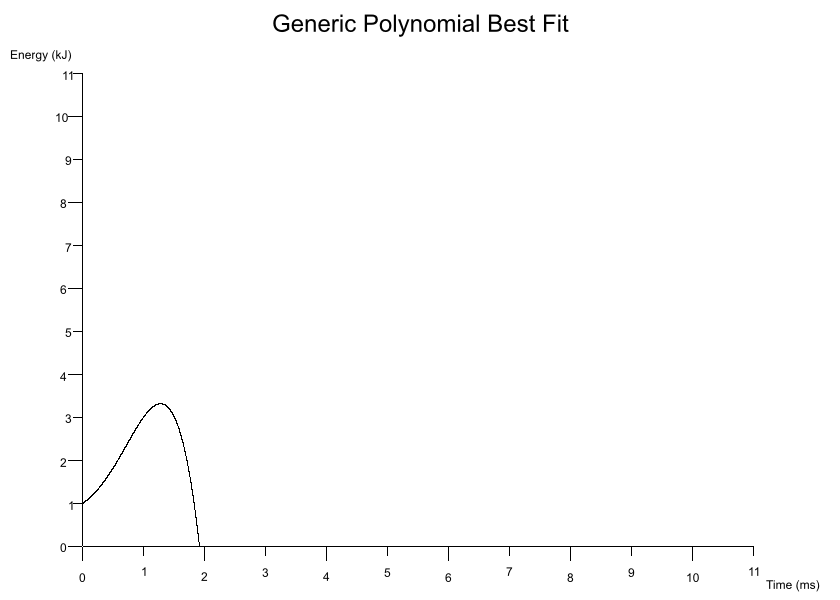
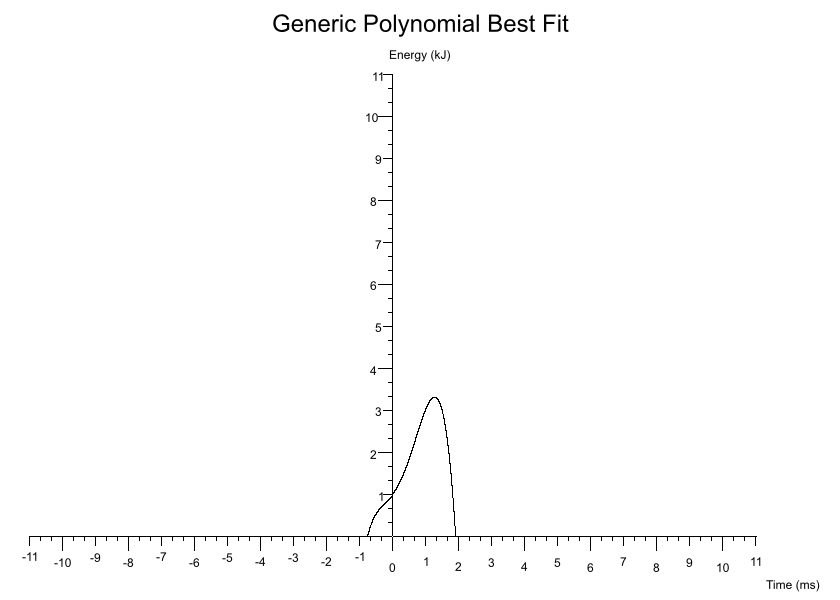
tidy up

diff --git a/src/canvas/best_fit.rs b/src/canvas/best_fit.rs
@@ -149,7 +149,7 @@ impl BestFit {
 			} => {
 				trace!("Finding coordinates for Linear best fit line with gradient {}, y_intercept {} and between ({}, {}) and ({}, {})", gradient, y_intercept, x_min, y_min, x_max, y_max);
 				let mut points: Vec<DataPoint> = Vec::new();
-				for scaled_x in x_min..=(x_max * scale_factor) {
+				for scaled_x in (x_min * scale_factor)..=(x_max * scale_factor) {
 					let x = scaled_x as f32 / scale_factor as f32;
 					let y = (*gradient * x) + *y_intercept;
 					if y > y_min as f32 && y < y_max as f32 {
@@ -175,7 +175,7 @@ impl BestFit {
 			} => {
 				trace!("Finding coordinates for Quadratic best fit line with intercept {}, linear coefficient {} and quadratic coefficient {}", intercept, linear_coeff, quadratic_coeff);
 				let mut points: Vec<DataPoint> = Vec::new();
-				for scaled_x in x_min..=(x_max * scale_factor) {
+				for scaled_x in (x_min * scale_factor)..=(x_max * scale_factor) {
 					let x = scaled_x as f32 / scale_factor as f32;
 					let y = intercept + (linear_coeff * x) + (quadratic_coeff * x.powf(2.0));
 					if y > y_min as f32 && y < y_max as f32 {
@@ -202,7 +202,7 @@ impl BestFit {
 			} => {
 				trace!("Finding coordinates for Cubic best fit line with intercept {}, linear coefficient {}, quadratic coefficient {} and cubic coefficient {}", intercept, linear_coeff, quadratic_coeff, cubic_coeff);
 				let mut points: Vec<DataPoint> = Vec::new();
-				for scaled_x in x_min..=(x_max * scale_factor) {
+				for scaled_x in (x_min * scale_factor)..=(x_max * scale_factor) {
 					let x = scaled_x as f32 / scale_factor as f32;
 					let y = intercept
 						+ (linear_coeff * x) + (quadratic_coeff * x.powf(2.0))
@@ -228,7 +228,7 @@ impl BestFit {
 			} => {
 				trace!("Finding coordinates for GenericPolynomial best fit line");
 				let mut points: Vec<DataPoint> = Vec::new();
-				for scaled_x in x_min..=(x_max * scale_factor) {
+				for scaled_x in (x_min * scale_factor)..=(x_max * scale_factor) {
 					let x = scaled_x as f32 / scale_factor as f32;
 					let mut y = 0.0;
 					for (k, v) in coefficients.iter() {
@@ -262,7 +262,7 @@ impl BestFit {
 					std::process::exit(1);
 				}
 				let mut points: Vec<DataPoint> = Vec::new();
-				for scaled_x in x_min..=(x_max * scale_factor) {
+				for scaled_x in (x_min * scale_factor)..=(x_max * scale_factor) {
 					let x = scaled_x as f32 / scale_factor as f32;
 					let y = (constant * base.powf(power * x)) + vertical_shift;
 					if y > y_min as f32 && y < y_max as f32 {
@@ -292,7 +292,7 @@ impl BestFit {
 					std::process::exit(1)
 				}
 				let mut points: Vec<DataPoint> = Vec::new();
-				for scaled_x in x_min..=(x_max * scale_factor) {
+				for scaled_x in (x_min * scale_factor)..=(x_max * scale_factor) {
 					let x = scaled_x as f32 / scale_factor as f32;
 					let y = (variance * (2.0 * PI).sqrt()).powf(-1.0)
 						* E.powf(-(x - expected_value).powf(2.0) / (2.0 * variance.powf(2.0)));
@@ -345,7 +345,7 @@ impl BestFit {
 			} => {
 				trace!("Finding coordinates for Sinusoidal best fit line with amplitude {}, period {}, phase shift {} and vertical shift {}", amplitude, period, phase_shift, vertical_shift);
 				let mut points: Vec<DataPoint> = Vec::new();
-				for scaled_x in x_min..=(x_max * scale_factor) {
+				for scaled_x in (x_min * scale_factor)..=(x_max * scale_factor) {
 					let x = scaled_x as f32 / scale_factor as f32;
 					let y = amplitude * ((period * x) + phase_shift).sin() + vertical_shift;
 					if y > y_min as f32 && y < y_max as f32 {
@@ -372,7 +372,7 @@ impl BestFit {
 			} => {
 				trace!("Finding coordinates for Cosinusoidal best fit line with amplitude {}, period {}, phase shift {} and vertical shift {}", amplitude, period, phase_shift, vertical_shift);
 				let mut points: Vec<DataPoint> = Vec::new();
-				for scaled_x in x_min..=(x_max * scale_factor) {
+				for scaled_x in (x_min * scale_factor)..=(x_max * scale_factor) {
 					let x = scaled_x as f32 / scale_factor as f32;
 					let y = amplitude * ((period * x) + phase_shift).cos() + vertical_shift;
 					if y > y_min as f32 && y < y_max as f32 {

diff --git a/src/canvas/axes/axis_y.rs b/src/canvas/axes/axis_y.rs
@@ -344,24 +344,6 @@ pub fn draw_y_axis_scale_markings(
 					let py = axis_min_pixel.1 - (i * subdivision_length);
 					canvas.put_pixel(px, py, Rgba(BLACK));
 				}
-				// Draw the data label text
-				// For TopPair don't draw the origin marker text otherwise it sits on x-axis
-				if i == 0 && *quadrants == Quadrants::TopPair {continue}
-				let text = (y_data_min_max_limits.0 as f32 + (value_per_subdivision * i as f32))
-					.to_string();
-				let glyphs = create_glyphs(font_size, &text, &font);
-				// So that scale markers are not drawn on the graph area itself check which quadrant type
-				// and flip if necessary so they are drawn in the available whitespace outside the axis
-				let origin_x = if *quadrants == Quadrants::TopLeft {
-					axis_origin_pixel.0 + (data_label_length * label_length_scale)
-				} else {
-					axis_origin_pixel.0 - (data_label_length * label_length_scale)
-				};
-				let origin_y = axis_min_pixel.1 - (i * subdivision_length);
-				let offset = get_y_axis_scale_label_offset(&glyphs, origin_x, origin_y, quadrants);
-				trace!("Drawing y-axis label {} at {:?}", text, offset);
-				draw_glyphs(canvas, BLACK, glyphs, offset);
-
 				// If there's enough space between each scale marker create mini-markings
 				// mini-marker varients
 				let marker_count = vec![9, 4, 3, 2, 1];
@@ -386,6 +368,23 @@ pub fn draw_y_axis_scale_markings(
 						break 'outer;
 					}
 				}
+				// Draw the data label text
+				// For TopPair don't draw the origin marker text otherwise it sits on x-axis
+				if i == 0 && *quadrants == Quadrants::TopPair {continue}
+				let text = (y_data_min_max_limits.0 as f32 + (value_per_subdivision * i as f32))
+					.to_string();
+				let glyphs = create_glyphs(font_size, &text, &font);
+				// So that scale markers are not drawn on the graph area itself check which quadrant type
+				// and flip if necessary so they are drawn in the available whitespace outside the axis
+				let origin_x = if *quadrants == Quadrants::TopLeft {
+					axis_origin_pixel.0 + (data_label_length * label_length_scale)
+				} else {
+					axis_origin_pixel.0 - (data_label_length * label_length_scale)
+				};
+				let origin_y = axis_min_pixel.1 - (i * subdivision_length);
+				let offset = get_y_axis_scale_label_offset(&glyphs, origin_x, origin_y, quadrants);
+				trace!("Drawing y-axis label {} at {:?}", text, offset);
+				draw_glyphs(canvas, BLACK, glyphs, offset);
 			}
 		}
 		// varients with just a negative y-axis

diff --git a/README.md b/README.md
@@ -7,9 +7,11 @@
 
 # plotrs
 
-A CLI app for plotting csv data sets onto a graph. It works by reading a graph definition from a `.ron` file, then extracts data from one or more csv files and produces a `.png` image.
+A CLI app for plotting csv data sets onto a graph. It works by reading a graph definition from a `.ron` file, then extracts data from one or more csv files and produces a `.png` image. Currently only scatter graphs are supported.
 
 <img src="examples/scatter_full/showcasing_a_bunch_of_cool_features.png" alt="s" width="800"/>
+
+Back in the mists of time I used to use [GNU Octave](https://www.gnu.org/software/octave/index) for plotting data about plasmonic absorption and photovoltaic-thermoelectric currents. As part of my Rust jounrey I thought I'd try writting a program for plotting data points in a similar style.
 
 ## Features
 
@@ -133,7 +135,7 @@ y = gradient * x + y_intercept
 y = intercept + (linear_coeff * x) + (quadratic_coeff * x.powf(2))
 ```
 
-`Some(Quadratic(intercept: 1.0, linear_coeff: 1.0, quadratic_coeff: 2.0, colour: Black))`
+`Some(Quadratic(intercept: 1.0, linear_coeff: 0.0, quadratic_coeff: 1.0, colour: Black))`
 
 <img src="examples/scatter_best_fit/quadratic_best_fit.png" alt="s" width="210"/>
 
@@ -163,6 +165,8 @@ The following extends the Cubic best fit into a Quartic Polynomial:
 
 `Some(GenericPolynomial(coefficients: {0: 1.0, 1: 1.0, 2: 1.0, 3: 1.0, 4: -1.0}, colour: Black))`
 
+Which to the human eye kinda looks like: `1 + x + x^2 + x^3 - x^4`.
+
 <img src="examples/scatter_best_fit/generic_polynomial_best_fit.png" alt="s" width="210"/>
 
 ### Exponential
@@ -181,7 +185,7 @@ y = (constant * base.powf(power * x)) + vertical_shift;
 `y = (variance * (2.0 * PI).sqrt()).powf(-1.0) * E.powf(-(x - expected_value).powf(2.0) / (2.0 * variance.powf(2.0)))`
 ```
 
-`Some(Gaussian(expected_value: 5.0, variance: 0.2, colour: Black))`
+`Some(Gaussian(expected_value: 0.0, variance: 0.3, colour: Black))`
 
 <img src="examples/scatter_best_fit/gaussian_best_fit.png" alt="s" width="210"/>
 
@@ -256,6 +260,7 @@ Try increasing the size of your canvas if the edges of the text become blurry.
 
 ## Contributing
 
+* If you're unsure about something raise an issue first
 * Fork it
 * Tippy tap your keyboard
 * Submit a PR
@@ -270,3 +275,4 @@ Try increasing the size of your canvas if the edges of the text become blurry.
 * Allow overriding font
 * checked sub and addition to ensure pixel u32s are not overflowing maybe?
 * Split/simplify drawing methods out and then add a billion tests, many around position calculations
+* What methods/modules can be reused to draw other graph types...
